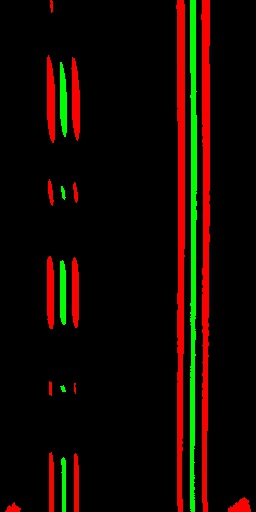
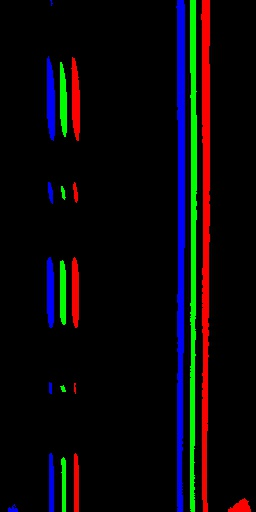
Seperate left and right sobel channel

diff --git a/pipeline.py b/pipeline.py
@@ -20,19 +20,21 @@ def warp(img, src=np.float32([[596,450],[688,450],[1048,681],[276,681]])):
     return warped, M
 
 def thresh_r(img):
-    """Apply a binary threshold to the R channel"""
+    """Apply a binary thresholds to the R channel"""
     b, g, r = cv2.split(img)
-    binary = cv2.adaptiveThreshold(r, 255, cv2.ADAPTIVE_THRESH_MEAN_C, cv2.THRESH_BINARY, 255, -70)
-    return binary
+    binary_r = cv2.adaptiveThreshold(r, 255, cv2.ADAPTIVE_THRESH_MEAN_C, cv2.THRESH_BINARY, 255, -70)
+    return binary_r
 
 def thresh_sobel(img):
-    """Apply a binary threshold on the sobel operator"""
     b, g, r = cv2.split(img)
     sobelx = cv2.Sobel(cv2.blur(r, (25,17)), cv2.CV_64F, 1, 0)
-    abs_sobelx = np.absolute(sobelx)
-    scaled_sobel = np.uint8(255*abs_sobelx/np.max(abs_sobelx))
-    sobel_binary = cv2.adaptiveThreshold(scaled_sobel, 255, cv2.ADAPTIVE_THRESH_MEAN_C, cv2.THRESH_BINARY, 255, -40)
-    return sobel_binary
+    min_sobel = np.min(sobelx)
+    max_sobel = np.max(sobelx)
+    scaled_sobel_l = np.uint8(255*(sobelx-min_sobel)/(max_sobel-min_sobel))
+    scaled_sobel_r = 255-scaled_sobel_l
+    sobel_binary_l = cv2.adaptiveThreshold(scaled_sobel_l, 255, cv2.ADAPTIVE_THRESH_MEAN_C, cv2.THRESH_BINARY, 255, -30)
+    sobel_binary_r = cv2.adaptiveThreshold(scaled_sobel_r, 255, cv2.ADAPTIVE_THRESH_MEAN_C, cv2.THRESH_BINARY, 255, -30)
+    return sobel_binary_l, sobel_binary_r
 
 def load_calibration_params():
     cal_file = open('calibration.pkl','rb')
@@ -52,8 +54,8 @@ def output_test_images():
         warped, M = warp(undist)
         cv2.imwrite('output_images/warped_'+os.path.basename(fname), warped)
         binary_r = thresh_r(warped)
-        binary_sobel = thresh_sobel(warped)
-        thresholded = cv2.merge([np.zeros_like(binary_r), binary_r, binary_sobel])
+        binary_sobel_l, binary_sobel_r = thresh_sobel(warped)
+        thresholded = cv2.merge([binary_sobel_l, binary_r, binary_sobel_r])
         cv2.imwrite('output_images/thresholded_'+os.path.basename(fname), thresholded)
 
 output_test_images()
